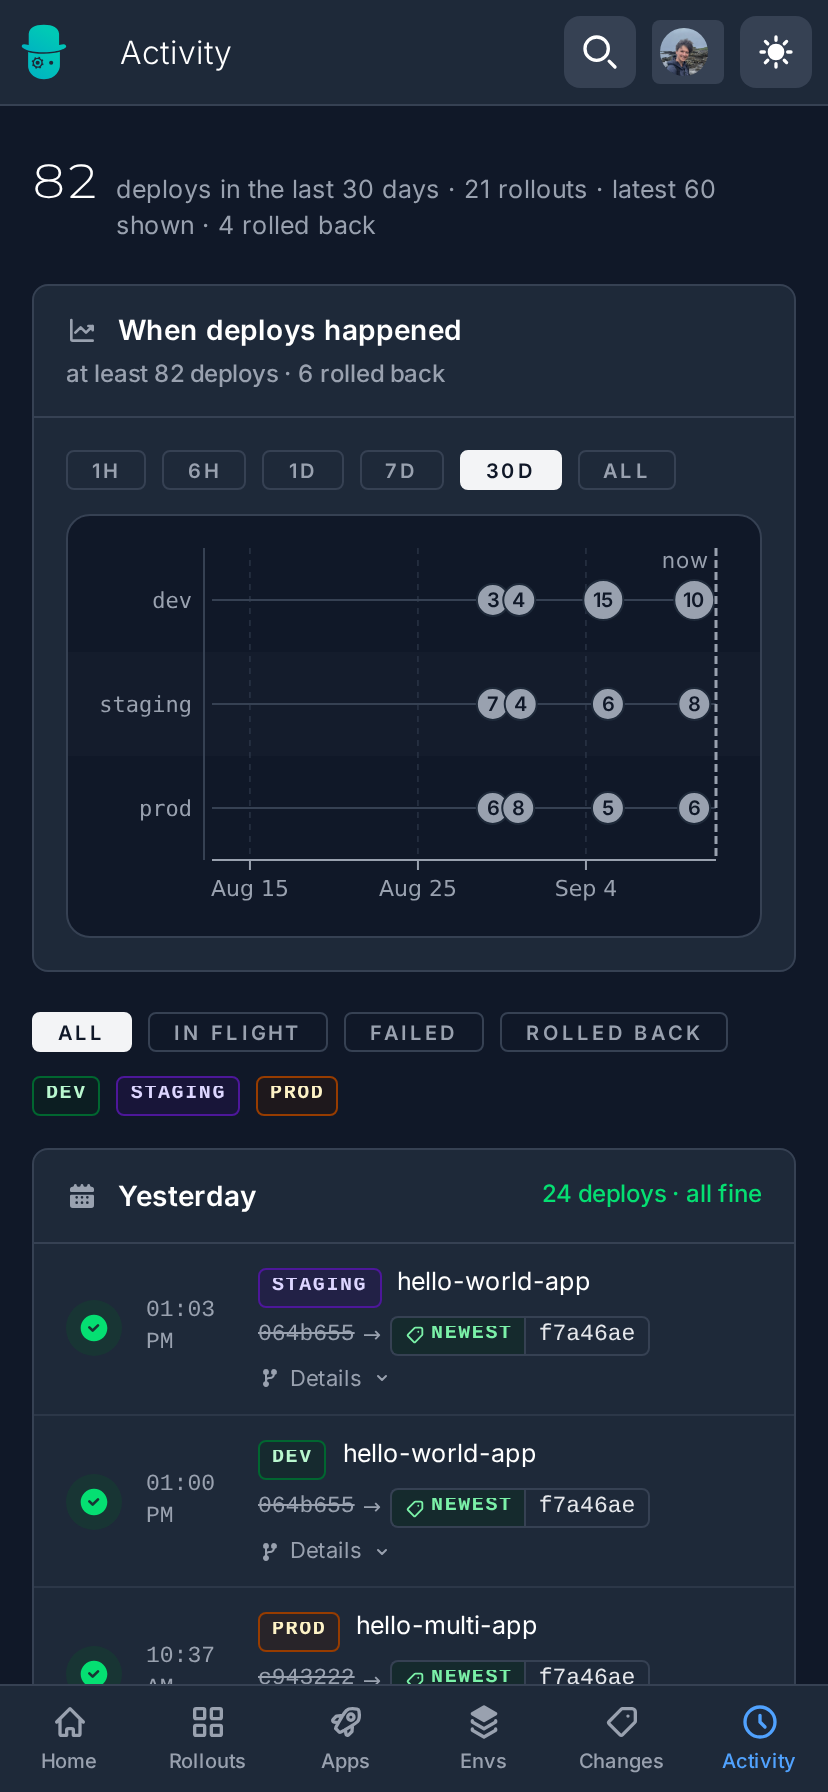
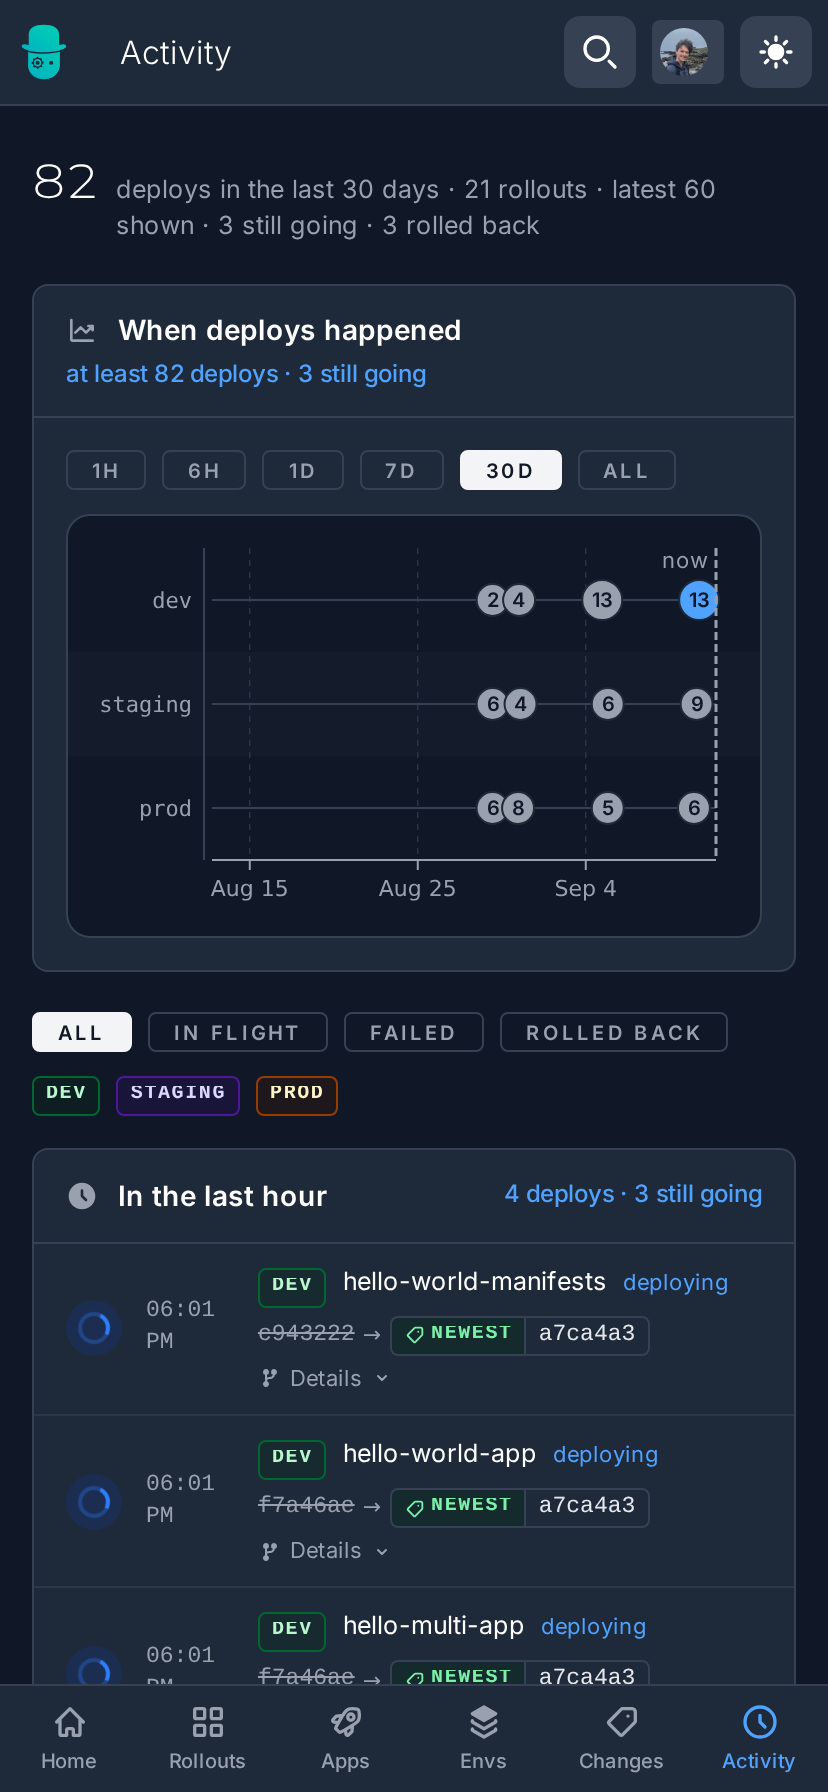
blog: v0.9 gets its Home and GitHub sections; screenshots captured mid-rollout

diff --git a/content/blog/v0.9.0.md b/content/blog/v0.9.0.md
@@ -9,7 +9,7 @@ tags:
   - Release
 ---
 
-Two components ship in this release: rollout-controller v0.9.0 and rollout-dashboard v0.9.1, with chart kuberik 0.6.0 pinning both.
+Two components ship in this release: rollout-controller v0.9.0 and rollout-dashboard v0.9.1, with chart kuberik 0.6.0 pinning both. The dashboard gets a new home page, a GitHub-backed Changes view, and inter-service contract gates from the controller.
 
 <!--more-->
 
@@ -25,9 +25,13 @@ The dashboard now answers the developer's question, not only the operator's: **i
 
 ![A change — the hold, its constraint, the action, and every rollout that would get it](/screenshots/dashboard/change.png)
 
-**Home.** "Your changes" sits above the fleet on a phone and first in the rail on a desktop, so the first thing a developer sees after merging is where it went.
+**Home is new.** The landing page is now a control centre rather than a list: the fleet's verdict in one line, then three sections in the order that needs attention. *In motion* shows what is deploying or checking right now, with its stage and what comes next. *Held* shows every rollout a rule is holding and what it waits for. *Steady* is everything on its newest build. Beside them, a rail: your changes, how it is going (deploys this week, typical time to production, failures), and recent activity. On a phone the rail leads with your changes.
 
-![Home — held and steady rollouts, your changes, how it is going](/screenshots/dashboard/home.png)
+![Home — in motion, held and steady rollouts, your changes, how it is going](/screenshots/dashboard/home.png)
+
+**GitHub integration.** The dashboard signs each user in to GitHub through a GitHub App, so everyone sees exactly the repositories they can already read and nothing is stored server-side. Connected, it turns shas into things people recognise: pull request titles and authors on Changes, the commits and diffstat between the running build and the one you are about to ship in the Change Version dialog, commit changelists on a rollout's history, check-run results on a change's merge commit, and "View on GitHub" links that target the commit, not the tag. Setup is a client id and secret on the hub; see [GitHub integration](/docs/integrations/github/#dashboard-commit-changelists).
+
+![Rollout history — a deploy in flight with the commit it ships, its diffstat and author, from GitHub](/screenshots/dashboard/history.png)
 
 **Search.** Paste a PR link, `owner/repo#4`, `#4` or a commit sha into `⌘K` and land on the change. Free text matches the titles of your merged changes.
 

diff --git a/content/docs/integrations/github.md b/content/docs/integrations/github.md
@@ -74,6 +74,8 @@ The Rollout Dashboard can show what a deploy changes — the commits and diffsta
 
 This is independent of the token above: the Environment backend uses a PAT per namespace; the dashboard uses app credentials, hub cluster only.
 
+Since v0.9 the same sign-in powers **Changes** (`/changes`): every merged pull request and commit across the repositories the cluster deploys, where each one stands per service and environment, and the check-run results on its merge commit. Paste a PR link into `⌘K` to open its change.
+
 {{% steps %}}
 
 ### Create a GitHub App
